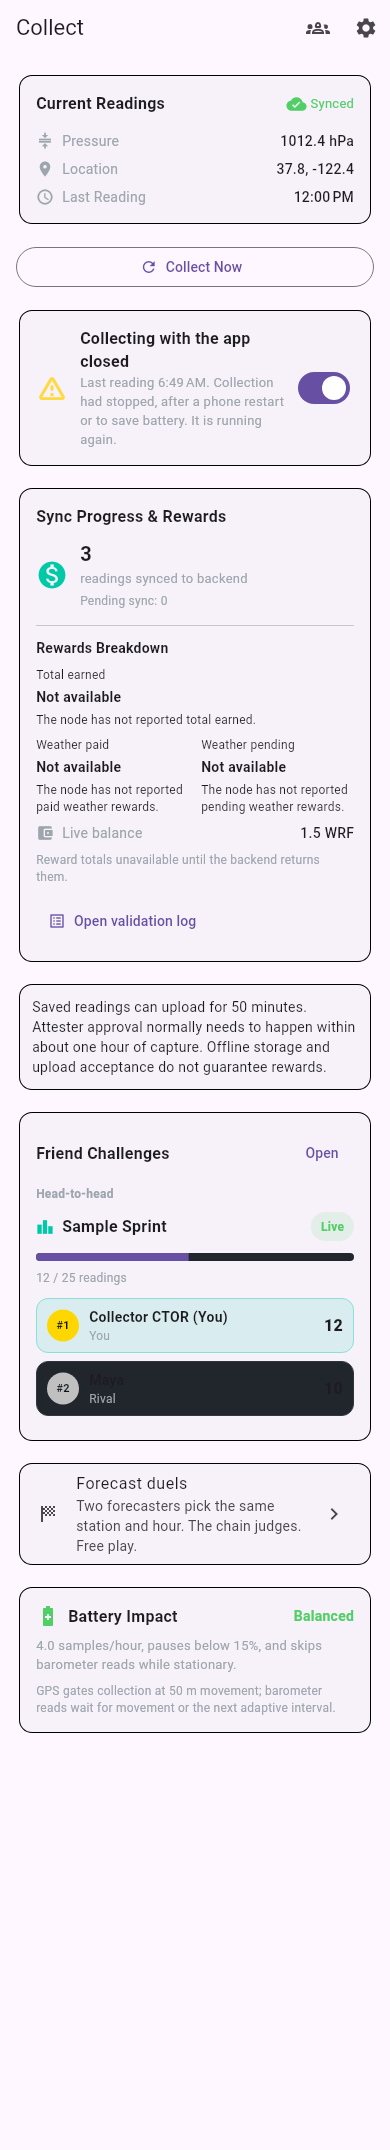
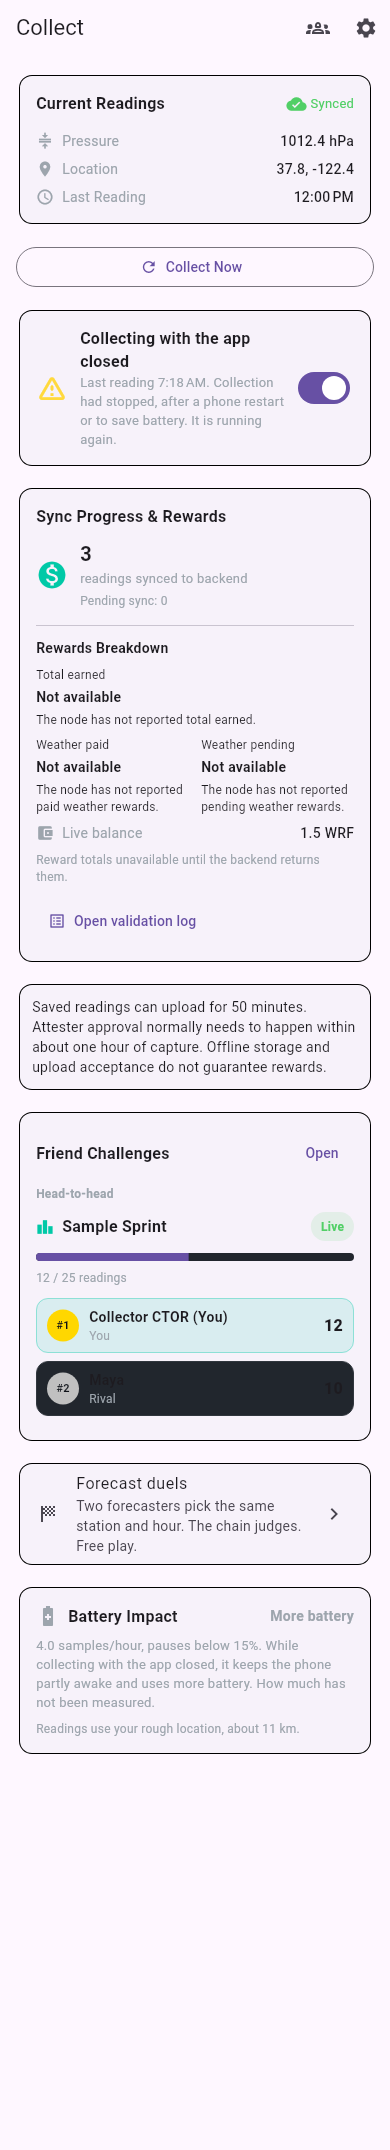
fix(collect): the battery card no longer claims Balanced for the service (#67)
The Collect service keeps the phone partly awake, and its battery use has not
been measured. Where the service exists, the card now says it uses more battery
and that the amount is unmeasured, whether it is running or not, and drops the
green label. The old line about GPS gating collection is replaced: readings use
a rough location.

Claude-Session: https://claude.ai/code/session_01HDDj5uyYN1PykLZx1AF9xY

Changed region(s): [[0.0923, 0.7479, 0.8923, 0.8102]]

diff --git a/lib/features/collector/presentation/screens/collector_dashboard.dart b/lib/features/collector/presentation/screens/collector_dashboard.dart
@@ -650,9 +650,11 @@ class CollectorDashboard extends ConsumerWidget {
                 children: [
                   Row(
                     children: [
-                      const Icon(
+                      Icon(
                         Icons.battery_saver_outlined,
-                        color: AppColors.success,
+                        color: batteryImpact.isReassuring
+                            ? AppColors.success
+                            : AppColors.textSecondary,
                       ),
                       const SizedBox(width: 8),
                       const Expanded(
@@ -666,8 +668,10 @@ class CollectorDashboard extends ConsumerWidget {
                       ),
                       Text(
                         batteryImpact.label,
-                        style: const TextStyle(
-                          color: AppColors.success,
+                        style: TextStyle(
+                          color: batteryImpact.isReassuring
+                              ? AppColors.success
+                              : AppColors.textSecondary,
                           fontWeight: FontWeight.w600,
                         ),
                       ),
@@ -683,7 +687,7 @@ class CollectorDashboard extends ConsumerWidget {
                   ),
                   const SizedBox(height: 8),
                   const Text(
-                    'GPS gates collection at 50 m movement; barometer reads wait for movement or the next adaptive interval.',
+                    'Readings use your rough location, about 11 km.',
                     style: TextStyle(
                       color: AppColors.textSecondary,
                       fontSize: 12,

diff --git a/lib/features/collector/data/services/sampling_policy.dart b/lib/features/collector/data/services/sampling_policy.dart
@@ -36,7 +36,15 @@ class BatteryImpactEstimate {
   final String label;
   final String detail;
 
-  const BatteryImpactEstimate({required this.label, required this.detail});
+  /// A reassuring label, shown in green. Never for service collection, whose
+  /// battery use has not been measured.
+  final bool isReassuring;
+
+  const BatteryImpactEstimate({
+    required this.label,
+    required this.detail,
+    this.isReassuring = true,
+  });
 }
 
 class SamplingPolicy {
@@ -114,9 +122,27 @@ class SamplingPolicy {
   static BatteryImpactEstimate estimateImpact({
     required int intervalMinutes,
     required int batteryThreshold,
+    bool usesForegroundService = false,
+    bool serviceRunning = false,
   }) {
     final interval = intervalMinutes.clamp(15, 60).toInt();
     final samplesPerHour = 60 / interval;
+    if (usesForegroundService) {
+      final rate =
+          '${samplesPerHour.toStringAsFixed(1)} samples/hour, pauses below '
+          '$batteryThreshold%.';
+      const cost =
+          'it keeps the phone partly awake and uses more battery. How much has '
+          'not been measured.';
+      return BatteryImpactEstimate(
+        label: serviceRunning ? 'More battery' : 'Not running',
+        detail: serviceRunning
+            ? '$rate While collecting with the app closed, $cost'
+            : '$rate Not collecting with the app closed right now. When it '
+                  'runs, $cost',
+        isReassuring: false,
+      );
+    }
     final label = interval >= 45
         ? 'Very low'
         : interval >= 30

diff --git a/test/features/collector/data/sampling_policy_test.dart b/test/features/collector/data/sampling_policy_test.dart
@@ -67,6 +67,33 @@ void main() {
       expect(estimate.detail, contains('2.0 samples/hour'));
       expect(estimate.detail, contains('pauses below 15%'));
     });
+
+    test('service collection says more battery, unmeasured, never Balanced', () {
+      final estimate = SamplingPolicy.estimateImpact(
+        intervalMinutes: 15,
+        batteryThreshold: 15,
+        usesForegroundService: true,
+        serviceRunning: true,
+      );
+
+      expect(estimate.label, 'More battery');
+      expect(estimate.detail, contains('uses more battery'));
+      expect(estimate.detail, contains('not been measured'));
+      expect(estimate.detail, contains('pauses below 15%'));
+    });
+
+    test('turned off, it says what turning it on costs', () {
+      final estimate = SamplingPolicy.estimateImpact(
+        intervalMinutes: 15,
+        batteryThreshold: 15,
+        usesForegroundService: true,
+        serviceRunning: false,
+      );
+
+      expect(estimate.label, 'Not running');
+      expect(estimate.detail, contains('uses more battery'));
+      expect(estimate.detail, contains('not been measured'));
+    });
   });
 
   group('SamplingPolicy timer jitter', () {

diff --git a/test/features/collector/presentation/collector_dashboard_test.dart b/test/features/collector/presentation/collector_dashboard_test.dart
@@ -567,7 +567,10 @@ void main() {
     );
 
     expect(find.text('Battery Impact'), findsOneWidget);
-    expect(find.text('Low'), findsOneWidget);
+    expect(find.text('Low'), findsNothing);
+    expect(find.text('Balanced'), findsNothing);
+    expect(find.text('Not running'), findsOneWidget);
+    expect(find.textContaining('not been measured'), findsOneWidget);
     expect(
       find.textContaining('2.0 samples/hour, pauses below 15%'),
       findsOneWidget,

diff --git a/lib/features/collector/presentation/providers/collector_provider.dart b/lib/features/collector/presentation/providers/collector_provider.dart
@@ -894,5 +894,7 @@ final batteryImpactEstimateProvider = Provider<BatteryImpactEstimate>((ref) {
   return SamplingPolicy.estimateImpact(
     intervalMinutes: state.intervalMinutes,
     batteryThreshold: state.batteryThreshold,
+    usesForegroundService: ref.watch(collectionServiceProvider).supported,
+    serviceRunning: state.isCollecting && state.serviceRunning,
   );
 });
